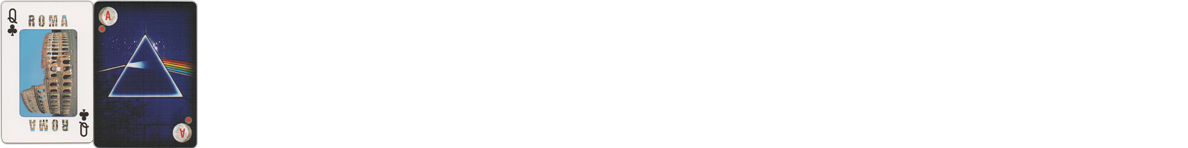
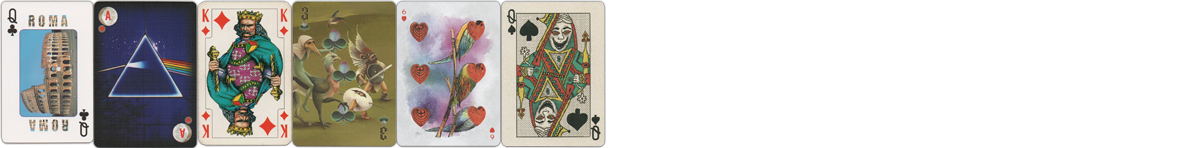
feat(Playing cards): add new cards

diff --git a/src/app/components/item-pages/PlayingCardsPage/index.tsx b/src/app/components/item-pages/PlayingCardsPage/index.tsx
@@ -807,6 +807,41 @@ const PlayingCardsPage: React.FunctionComponent<ItemPageProps> = ({className, it
               height={147}
               imgs={playingCards8Imgs}
             />
+            <PlayingCard
+              title="Królewskie"
+              x={197}
+              y={0}
+              width={95}
+              height={147}
+              imgs={playingCards8Imgs}
+            />
+            <PlayingCard
+              href="https://www.kickstarter.com/projects/sunishchabba/bosch-playing-cards-0"
+              title="Bosch"
+              x={292}
+              y={0}
+              width={104}
+              height={147}
+              imgs={playingCards8Imgs}
+            />
+            <PlayingCard
+              href="https://www.kickstarter.com/projects/sunishchabba/a-motley-pack-transformation-playing-cards"
+              title="A Motley Pack"
+              x={397}
+              y={0}
+              width={105}
+              height={147}
+              imgs={playingCards8Imgs}
+            />
+            <PlayingCard
+              href="https://www.kickstarter.com/projects/fallisdesign/broken-crowns-playing-cards"
+              title="Broken crowns"
+              x={502}
+              y={0}
+              width={104}
+              height={147}
+              imgs={playingCards8Imgs}
+            />
 
             {/* rest */}
             <PlayingCard

diff --git a/src/app/data/translations/ru.ts b/src/app/data/translations/ru.ts
@@ -458,7 +458,7 @@ export const ru: TranslatedStrings = {
         'Не ставлю себе задачу собрать очень много и всё подряд, поэтому коллекция не очень \
 большая и насчитывает на данный момент около 100 колод. Собираю именно те, \
 которые понравились.',
-      imgTitle: 'По одной карте из каждой колоды (кликабельно). Февраль 2021',
+      imgTitle: 'По одной карте из каждой колоды (кликабельно). Июль 2021',
     },
   },
   Poland: {

diff --git a/src/app/data/translations/en.ts b/src/app/data/translations/en.ts
@@ -374,7 +374,7 @@ export const en: TranslatedStrings = {
         'There is no purpose to gather everything from everywhere, \
 so the collection is not so big and contains around 100 decks today. \
 Collecting those which I really like.',
-      imgTitle: 'One card from each deck (clickable). February 2021',
+      imgTitle: 'One card from each deck (clickable). July 2021',
     },
   },
   Poland: {
